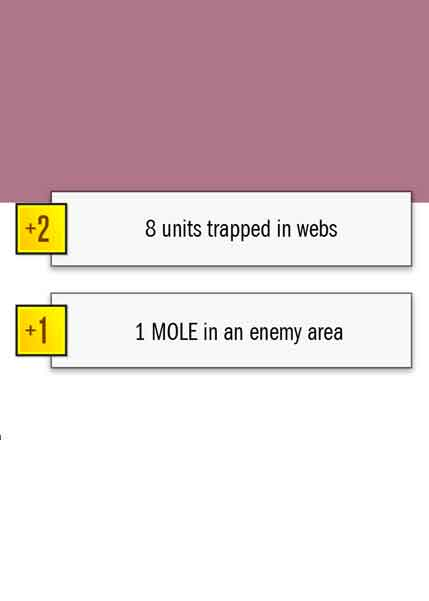
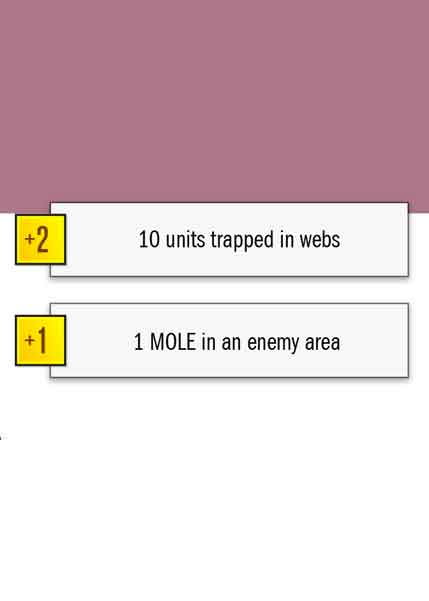
Increase spiders plan difficulties

Changed region(s): [[0.0, 0.2995, 1.0, 0.6589]]

diff --git a/server/classes/factions/plans/spidersPlans.js b/server/classes/factions/plans/spidersPlans.js
@@ -6,13 +6,13 @@ let obj = [
         objectives : [
             {
                 requirements : [
-                    { test : 'webbedTotal', args : [6] },
+                    { test : 'webbedTotal', args : [8] },
                 ],
                 value : 1
             },
             {
                 requirements : [
-                    { test : 'loseUnits', args : [3] },
+                    { test : 'loseUnits', args : [4] },
                 ],
                 value : 1
             },
@@ -31,7 +31,7 @@ let obj = [
         objectives : [
             {
                 requirements : [
-                    { test : 'webbedTotal', args : [8] },
+                    { test : 'webbedTotal', args : [10] },
                 ],
                 value : 2
             },
@@ -63,7 +63,7 @@ let obj = [
         objectives : [
             {
                 requirements : [
-                    { test : 'webbedTotal', args : [6] },
+                    { test : 'webbedTotal', args : [7] },
                 ],
                 value : 1
             },
